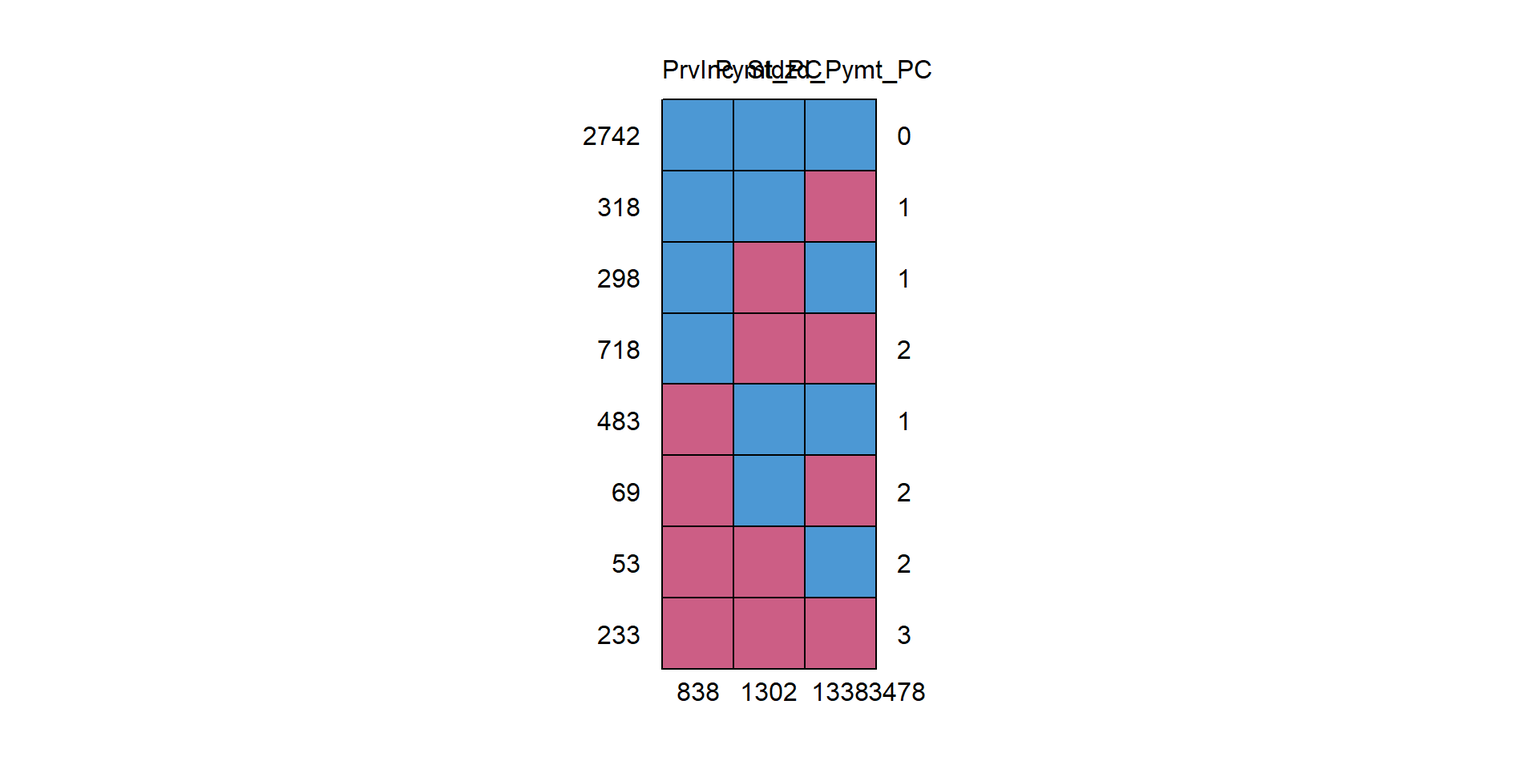
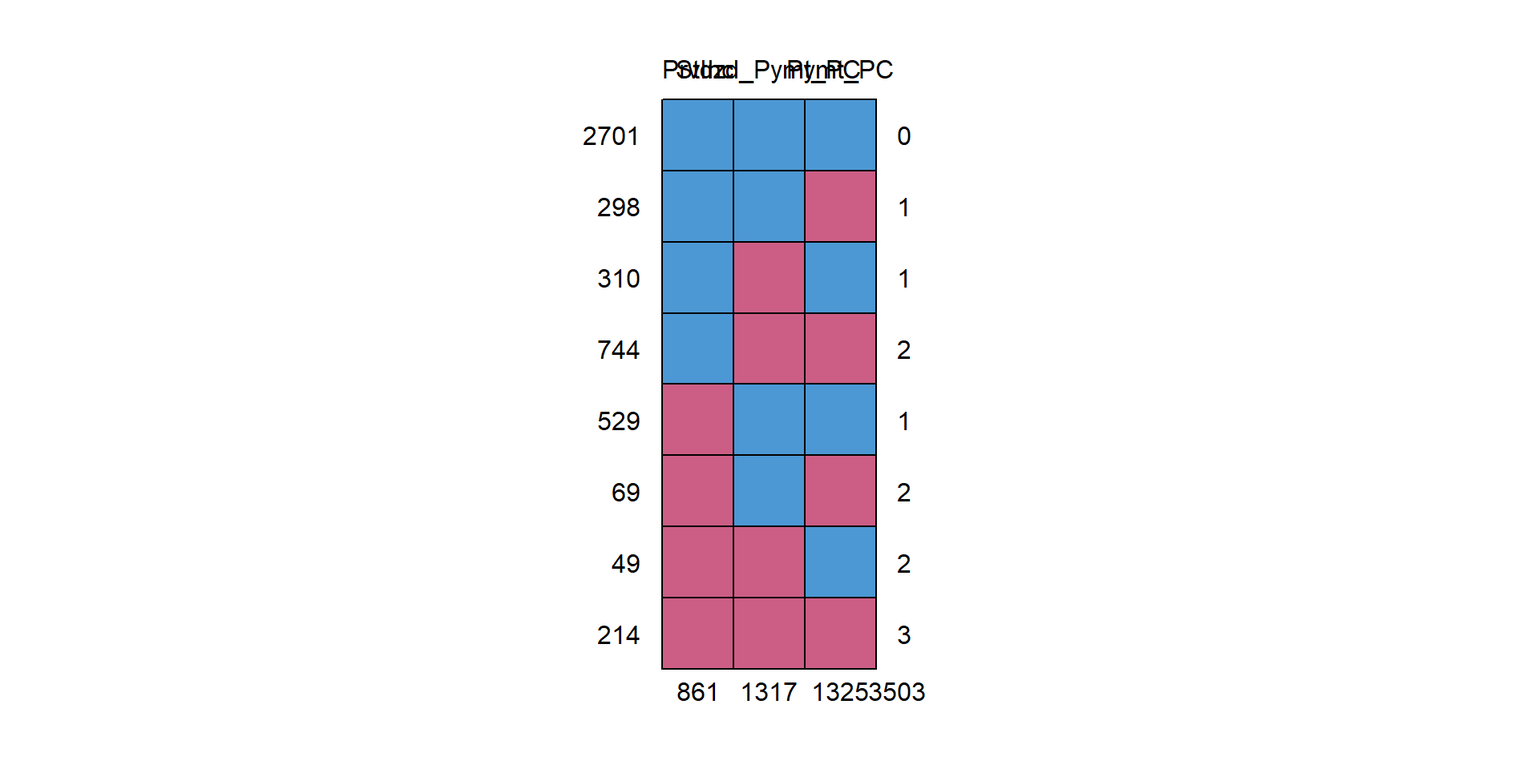
First set of slides

diff --git a/Slides.html b/Slides.html
@@ -11,7 +11,7 @@
   <meta name="generator" content="quarto-1.3.361">
 
   <meta name="author" content="Natalie Belford, Benjamin Brustad, Jasmine Hyler">
-  <meta name="dcterms.date" content="2023-07-24">
+  <meta name="dcterms.date" content="2023-07-26">
   <title>Missing Data and Imputation</title>
   <meta name="apple-mobile-web-app-capable" content="yes">
   <meta name="apple-mobile-web-app-status-bar-style" content="black-translucent">
@@ -420,7 +420,7 @@ Natalie Belford, Benjamin Brustad, Jasmine Hyler
 </div>
 </div>
 
-  <p class="date">2023-07-24</p>
+  <p class="date">2023-07-26</p>
 </section>
 <section id="introduction" class="slide level2">
 <h2>Introduction</h2>
@@ -450,9 +450,20 @@ Natalie Belford, Benjamin Brustad, Jasmine Hyler
 </section>
 <section id="methods" class="slide level2">
 <h2>Methods</h2>
-<p>The dataset used to conduct the below Missing Imputation methods was adapted from the most recent study conducted by the U.S. Department of Health &amp; Human Services which examined 21 specific chronic illnesses of Medicare beneficiaries<span class="citation" data-cites="CMMS">(<a href="#/references" role="doc-biblioref" onclick="">Medicare &amp; Medicaid Services 2018</a>)</span>.</p>
-<p>The Multiple Imputation (MI) approach is used to correct the issue of imputing multiple times the missing values from the predictive distribution of the missing values given observed data. “Next, the analysis model is fitted to each ‘complete’ data set and results combined using Rubin’s rules” <span class="citation" data-cites="k13">(<a href="#/references" role="doc-biblioref" onclick="">Kang 2013</a>)</span>. Bias can be reduced and efficiency increased by using in the imputation step the auxiliary variables (predictive of missing values but not in the substantive model). The MI method is good but is not appropriate for handling all missing data records.</p>
-<p>There is a three-step process for conducting a statistical analysis of MI. The stages are 1) Selecting independent variables that may help impute variables with missing data, 2) Noting the chosen statistical method, estimating in each of the imputed datasets the association of interest, and 3) Combining using Rubin’s rules the association measures from each imputed dataset. To combine, we use the following equations for Standard Error(SE), Arithmetic Average(W) and the Variability of the estimates(B), where t is a particular dataset, m is the total amount of imputed datasets, <span class="math inline">\(\bar{\theta}\)</span> and <span class="math inline">\(\hat{\theta_t}\)</span> are the average parameter estimate and the parameter estimate for a particular dataset, respectively.</p>
+<ul>
+<li><p>Dataset: 21 specific chronic illnesses of Medicare beneficiaries, from U.S. Department of Health &amp; Human Services <span class="citation" data-cites="CMMS">(<a href="#/references" role="doc-biblioref" onclick="">Medicare &amp; Medicaid Services 2018</a>)</span>.</p></li>
+<li><p>Goal: Fill in missing data (2244 missing entries, about 5%)</p></li>
+<li><p>Approach: Imputation using 3 approaches: Predictive Means Matching, Classification and Regression Trees, Lasso Regression, and Random Forest</p>
+<ul>
+<li>These are all forms of Multiple Imputation: perform single imputation several times to create multiple data sets, analyze and compute the error of each set, then combine the data into a single, final data set <span class="citation" data-cites="ljlmw14">(<a href="#/references" role="doc-biblioref" onclick="">Little et al. 2014</a>)</span>.</li>
+</ul></li>
+</ul>
+</section>
+<section id="rubins-rules-for-combining" class="slide level2 smaller">
+<h2>Rubin’s rules for combining</h2>
+<p>1) Select independent variables that may help impute variables with missing data</p>
+<p>2) Noting the chosen statistical method, estimate in each of the imputed datasets the association of interest</p>
+<p>3) Combine using Rubin’s rules the association measures from each imputed dataset. To combine, we use the following equations</p>
 <p><span class="math display">\[
 W=\frac{\sum({SE_t}^2)}{m} \tag{1}
 \]</span></p>
@@ -460,34 +471,61 @@ W=\frac{\sum({SE_t}^2)}{m} \tag{1}
 B=\frac{\sum(\hat{\theta_t}-\bar{\theta})^2}{m-1} \tag{2}
 \]</span></p>
 <p><span class="math display">\[
-SE=\sqrt{W+B+\frac{B}{m}}
+SE=\sqrt{W+B+\frac{B}{m}} \tag{3}
 \]</span></p>
-<p>TARMOS consists of three main steps with a series of subsets within each step. The steps are as follows. Step 1) Plan the analysis, step 2) Conduct the preplanned analysis, and step 3) Report the analysis. The framework’s emphasis is on transparency. All expectations of the analysis and the research interests should be disclosed.</p>
-<p>One proposed method which we deem computationally feasible for this project is multiple imputation. The methodology includes performing single imputation with multiple data sets, analyzing and computing the error of each set, and combining the data into a single, final data set <span class="citation" data-cites="ljlmw14">(<a href="#/references" role="doc-biblioref" onclick="">Little et al. 2014</a>)</span>.</p>
-<p>Researchers tested their proposed SICE method using four datasets, a sample of 65,000 real health records from hospitals and diagnostic clinics in Bangladesh, and one public dataset each from UCI Machine Learning Repository, Department of Mathematics of ETH Zurich, and Kaggle. The data types assessed were binary, categorical, and numeric.</p>
-<p>Researchers tested SICE performance against that of 12 existing imputation methods. Binary and numeric data responded better to SICE than the opposing methods. When using SICE, F-measurement resulted in a 20% increase while error reduction resulted in an 11% increase; Both factors showed improvement using SICE compared to the existing imputation methods. There was no significant time difference when running SICE compared to MICE [<span class="citation" data-cites="pmckppp17">Pedersen et al. (<a href="#/references" role="doc-biblioref" onclick="">2017</a>)</span>].</p>
-<p>Using Multiple Imputation by Chained Equations (MICE), the multiple imputation is conducted by manipulating the imputed data and comparing it to the regression, repeating the process multiple times, (usually 5-20), to create a single data set. Most modern imputations will create 20-100 data sets. Then each of these data sets will be analyzed and compared, such that the MI estimate of any statistic is the average of the statistic across each imputed set. The variance of each statistic is based on the within-imputation variation and the between-imputation variation [<span class="citation" data-cites="awlb21">Austin et al. (<a href="#/references" role="doc-biblioref" onclick="">2021</a>)</span>]. The variable that is to be analyzed must be included in the imputation model, even if there is no missing data, otherwise, it will often be biased towards null.</p>
-<p>For our analysis, we decided to use the R packages for predictive means matching, classification and regression trees, and lasso linear regression, defined below.</p>
 </section>
-<section id="equations" class="slide level2">
-<h2>Equations</h2>
-</section>
-<section id="predictive-means-matching" class="slide level2">
-<h2>Predictive Means Matching</h2>
-<p>Predictive means matching(PMM) is a hot deck method, which pools complete cases which are similar to the case we are trying to impute, and randomly chooses values from the pool of prospective donors to be imputed for the missing data.For each missing variable, $x$, we impute using parameters $\alpha$ and covariates $z$. We use $h$ as a subscript for data containing $x$ and $j$ for data without. PMM choses a random donor from $x_h$ such that the distance defined below is minimized.</p>
+<section id="predictive-means-matching-pmm" class="slide level2 smaller">
+<h2>Predictive Means Matching (PMM)</h2>
+<ul>
+<li><p>hot deck method</p></li>
+<li><p>easy to use</p></li>
+<li><p>handles any data type</p></li>
+<li><p>Realistic</p></li>
+<li><p>Hard to use for small data sets or ones with large FMI</p></li>
+</ul>
+<p>For each missing variable, <span class="math inline">\(x\)</span> , we impute using parameters <span class="math inline">\(\alpha\)</span> and covariates <span class="math inline">\(z\)</span> . We use <span class="math inline">\(h\)</span> as a subscript for data containing <span class="math inline">\(x\)</span> and <span class="math inline">\(j\)</span> for data without. PMM choses a random donor from <span class="math inline">\(x_h\)</span> such that the distance defined below is minimized.</p>
 <p><span class="math display">\[
 \delta_{hj}=\alpha^{mis}z_j-\alpha^{obs}z_h \tag{4}
 \]</span></p>
 </section>
-<section id="classification-and-regression-trees" class="slide level2">
-<h2>Classification and Regression Trees</h2>
-<p>Classification and regression trees(CART) look for predictors and cutoff points in the data, and split data into trees along these points. Classifications trees are used for discrete data, but for continuous, such as ours, regression trees are employed. Missing data is replaced very similarly to the PMM method, but data is chosen according to the tree of splitting points rather than regression [<span class="citation" data-cites="RJG21">Rodgers, Jacobucci, and Grimm (<a href="#/references" role="doc-biblioref" onclick="">2021</a>)</span>].</p>
+<section id="classification-and-regression-treescart" class="slide level2">
+<h2>Classification and Regression Trees(CART)</h2>
+<ul>
+<li><p>Machine Learning</p></li>
+<li><p>Robust</p></li>
+<li><p>Flexible</p></li>
+<li><p>Straightforward(in R)</p>
+<ul>
+<li>Automates variable selection, missing values, outliers, variable interaction, and nonlinear relationships</li>
+</ul></li>
+<li><p>In practice works similarly to PMM with tree instead of regression</p></li>
+</ul>
 </section>
-<section id="lasso-regression" class="slide level2">
+<section id="random-forestmiss-forest" class="slide level2">
+<h2>Random Forest(Miss Forest)</h2>
+<ul>
+<li>Subset of CART</li>
+</ul>
+<!-- -->
+<ul>
+<li><p>Uses CART and Rubin’s rules automatically to yield a single dataset</p></li>
+<li><p>Does not account for uncertainty and increases P values</p></li>
+<li><p>Usually similar to average of all predictions from the CART models</p></li>
+<li><p>Better predictions and accuracy than a single CART model</p></li>
+</ul>
+</section>
+<section id="lasso-regression" class="slide level2 smaller">
 <h2>Lasso Regression</h2>
-<p>Lasso linear regression fits a linear regression using the missing columns as dependent and complete columns as predictors. Then a Bayesian linear model is defined, and imputations are drawn from the posterior predictive distribution. Coefficients <span class="math inline">\(\hat{\beta_0}\)</span> and <span class="math inline">\(\hat{\beta}^{lasso}\)</span> are estimated by</p>
+<ul>
+<li><p>Minimizes regression coefficient (good for high multicollinearity)</p></li>
+<li><p>Best for high dimension datasets</p></li>
+<li><p>Preserves relationships between variables best</p></li>
+<li><p>May add bias</p></li>
+<li><p>Removes some predictor variables(easier to use)</p></li>
+</ul>
+<p>Coefficients <span class="math inline">\(\hat{\beta_0}\)</span> and <span class="math inline">\(\hat{\beta}^{lasso}\)</span> are estimated by</p>
 <p><span class="math display">\[(\hat{\beta_0}, \hat{\beta}^{lasso}) =argmin[\sum(Y_i-(\beta_0+\beta X^T_i))^2+\lambda \sum |\beta_j|] \tag5\]</span></p>
-<p>where Y and X are the outcome and predictors respectively. λ is a non-negative tuning parameter that controls the amount of shrinkage, with increased shrinkage for higher λ values [@MZPRG14].</p>
+<p>where Y and X are the outcome and predictors respectively. λ is a non-negative tuning parameter that controls the amount of shrinkage, with increased shrinkage for higher λ values <span class="citation" data-cites="MZPRG14">(<a href="#/references" role="doc-biblioref" onclick="">Musoro et al. 2014</a>)</span>.</p>
 </section>
 <section id="analysis-and-results" class="slide level2">
 <h2>Analysis and Results</h2>
@@ -576,16 +614,16 @@ SE=\sqrt{W+B+\frac{B}{m}}
 <p><img data-src="Slides_files/figure-revealjs/unnamed-chunk-6-1.png" width="960"></p>
 </div>
 <div class="cell-output cell-output-stdout">
-<pre><code>     PrvInc Pymt_PC Stdzd_Pymt_PC     
-2742      1       1             1    0
-318       1       1             0    1
-298       1       0             1    1
-718       1       0             0    2
-483       0       1             1    1
-69        0       1             0    2
-53        0       0             1    2
-233       0       0             0    3
-        838    1302          1338 3478</code></pre>
+<pre><code>     PrvInc Stdzd_Pymt_PC Pymt_PC     
+2701      1             1       1    0
+298       1             1       0    1
+310       1             0       1    1
+744       1             0       0    2
+529       0             1       1    1
+69        0             1       0    2
+49        0             0       1    2
+214       0             0       0    3
+        861          1317    1325 3503</code></pre>
 </div>
 </div>
 <p>Additionally, we ran the miss Forest package followed by a summary to gain a better quantitative view. Below are the code, results, and figure.</p>
@@ -603,14 +641,14 @@ SE=\sqrt{W+B+\frac{B}{m}}
 <span id="cb7-2"><a href="#cb7-2"></a></span>
 <span id="cb7-3"><a href="#cb7-3"></a><span class="fu">summary</span>(Chronic_Conditions.mis)</span></code><button title="Copy to Clipboard" class="code-copy-button"><i class="bi"></i></button></pre></div>
 <div class="cell-output cell-output-stdout">
-<pre><code>     PrvInc       Stdzd_Pymt_PC      Pymt_PC      
- Min.   :0.0000   Min.   :    0   Min.   :     0  
- 1st Qu.:0.0391   1st Qu.:18580   1st Qu.: 18389  
- Median :0.1114   Median :23222   Median : 22995  
- Mean   :0.1724   Mean   :24090   Mean   : 24021  
- 3rd Qu.:0.2756   3rd Qu.:28251   3rd Qu.: 28242  
- Max.   :0.7588   Max.   :89235   Max.   :100028  
- NA's   :838      NA's   :1338    NA's   :1302    </code></pre>
+<pre><code>     PrvInc       Stdzd_Pymt_PC      Pymt_PC     
+ Min.   :0.0000   Min.   :    0   Min.   :    0  
+ 1st Qu.:0.0381   1st Qu.:18582   1st Qu.:18393  
+ Median :0.1117   Median :23151   Median :22972  
+ Mean   :0.1732   Mean   :24039   Mean   :24013  
+ 3rd Qu.:0.2769   3rd Qu.:28228   3rd Qu.:28268  
+ Max.   :0.7588   Max.   :89235   Max.   :74136  
+ NA's   :861      NA's   :1317    NA's   :1325   </code></pre>
 </div>
 </div>
 <div class="cell">
@@ -658,14 +696,14 @@ Madley-Dowd, P., R. Hughes, K. Tilling, and J. Heron. 2019. <span>“The Proport
 <div id="ref-CMMS" class="csl-entry" role="listitem">
 Medicare &amp; Medicaid Services, Centers for. 2018. <span>“Specific Chronic Conditions.”</span> <a href="https://catalog.data.gov/dataset/specific-chronic-conditions-0f448">https://catalog.data.gov/dataset/specific-chronic-conditions-0f448</a>.
 </div>
+<div id="ref-MZPRG14" class="csl-entry" role="listitem">
+Musoro, Jammbe Z, Aeilko H Zwinderman, Milo A Puhan, Gerben ter Riet, and Ronald B Geskus. 2014. <span>“Validation of Prediction Models Based on Lasso Regression with Multiply Imputed Data.”</span> <em>BMC Medical Research Methodology</em> 1. https://doi.org/<a href="https://doi.org/10.1186/1471-2288-14-116">https://doi.org/10.1186/1471-2288-14-116</a>.
+</div>
 <div id="ref-oap18" class="csl-entry" role="listitem">
 Osman, M. S., A. M. Abu-Mahfouz, and P. R. Page. 2018. <span>“A Survey on Data Imputation Techniques: Water Distribution System as a Use Case.”</span> <em>IEEE Access</em> 6: 63279–91. <a href="https://doi.org/10.1109/ACCESS.2018.2877269">https://doi.org/10.1109/ACCESS.2018.2877269</a>.
 </div>
 <div id="ref-pmckppp17" class="csl-entry" role="listitem">
 Pedersen, Alma B., Ellen M. Mikkelsen, Deirdre Cronin-Fenton, Nickolaj R. Kristensen, Tra My Pham, Lars Pedersen, and Irene Petersen. 2017. <span>“Missing Data and Multiple Imputation in Clinical Epidemiological Research,”</span> <em>Clinical Epidemiology</em> 9: 157–66. <a href="https://doi.org/10.2147/CLEP.S129785">https://doi.org/10.2147/CLEP.S129785</a>.
-</div>
-<div id="ref-RJG21" class="csl-entry" role="listitem">
-Rodgers, Danielle M., Ross Jacobucci, and Kevin J. Grimm. 2021. <span>“A Multiple Imputation Approach for Handling Missing Data in Classification and Regression Trees.”</span> <em>Journal of Behavioral Data Science</em> 1: 127–53. https://doi.org/<a href="https://doi.org/10.35566/jbds/v1n1/p6">https://doi.org/10.35566/jbds/v1n1/p6</a>.
 </div>
 <div id="ref-r76" class="csl-entry" role="listitem">
 Rubin, Donald B. 1976. <span>“Inference and Missing Data.”</span> <em>Biometrika</em> 63 (3): 581–92. <a href="https://doi.org/10.1093/biomet/63.3.581">https://doi.org/10.1093/biomet/63.3.581</a>.

diff --git a/index.html b/index.html
@@ -7,7 +7,7 @@
 <meta name="viewport" content="width=device-width, initial-scale=1.0, user-scalable=yes">
 
 <meta name="author" content="Natalie Belford, Benjamin Brustad, Jasmine Hyler">
-<meta name="dcterms.date" content="2023-07-24">
+<meta name="dcterms.date" content="2023-07-26">
 
 <title>Missing Data and Imputation</title>
 <style>
@@ -119,7 +119,7 @@ div.csl-indent {
     <div>
     <div class="quarto-title-meta-heading">Published</div>
     <div class="quarto-title-meta-contents">
-      <p class="date">July 24, 2023</p>
+      <p class="date">July 26, 2023</p>
     </div>
   </div>
   
@@ -141,8 +141,8 @@ div.csl-indent {
 <section id="types-of-missing-data" class="level4">
 <h4 class="anchored" data-anchor-id="types-of-missing-data">Types of Missing Data</h4>
 <p>Throughout the topic research, a common theme has emerged. Missing data is categorized into either one of three types: Missing Completely at Random, Missing at Random, and or Missing Not at Random.</p>
-<p>Kang <span class="citation" data-cites="k13">(<a href="#ref-k13" role="doc-biblioref">2013</a>)</span> introduces us to the three types of missing data as initially proposed by Rubin <span class="citation" data-cites="r76">(<a href="#ref-r76" role="doc-biblioref">Rubin 1976</a>)</span>. This research was expanded upon <span class="citation" data-cites="pmckppp17">(<a href="#ref-pmckppp17" role="doc-biblioref">Pedersen et al. 2017</a>)</span> to discuss the thorough estimation value of using MI in data analysis along with providing the three-step method. Pedersen et al. <span class="citation" data-cites="pmckppp17">(<a href="#ref-pmckppp17" role="doc-biblioref">2017</a>)</span> conclude the results of using MI are similar to using complete datasets thereby enhancing the credibility of the method’s robustness.</p>
-<p>Missing Completely at Random (MCAR) refers to the probability that missing data is either not related to a specific value that is supposed to be obtained or to the set of obtained values. The data can also be missing due to equipment failure, samples lost in transit, or unsatisfactory samples <span class="citation" data-cites="k13">(<a href="#ref-k13" role="doc-biblioref">Kang 2013</a>)</span>. MCAR data are unbiased and therefore an advantage due to its estimated parameters being objective and undeterred because of missing data. As a result, MCAR is the best-case option for missing data in an experiment.</p>
+<p>Kang <span class="citation" data-cites="k13">(<a href="#ref-k13" role="doc-biblioref">2013</a>)</span> introduces us to the three types of missing data as initially proposed by Rubin <span class="citation" data-cites="r76">(<a href="#ref-r76" role="doc-biblioref">1976</a>)</span>. This research was expanded upon <span class="citation" data-cites="pmckppp17">(<a href="#ref-pmckppp17" role="doc-biblioref">Pedersen et al. 2017</a>)</span> to discuss the thorough estimation value of using MI in data analysis along with providing the three-step method. Pedersen et al. <span class="citation" data-cites="pmckppp17">(<a href="#ref-pmckppp17" role="doc-biblioref">2017</a>)</span> conclude the results of using MI are similar to using complete datasets thereby enhancing the credibility of the method’s robustness.</p>
+<p>Missing Completely at Random (MCAR) refers to the probability that missing data is either not related to a specific value that is supposed to be obtained or related to the set of obtained values. The data can also be missing due to equipment failure, samples lost in transit, or unsatisfactory samples <span class="citation" data-cites="k13">(<a href="#ref-k13" role="doc-biblioref">Kang 2013</a>)</span>. MCAR data are unbiased and therefore an advantage due to its estimated parameters being objective and undeterred because of missing data. As a result, MCAR is the best-case option for missing data in an experiment.</p>
 <p>Missing at Random (MAR) refers to the probability that missing responses are dependent upon the set of observed responses, but not related to the specific values expected to be obtained given the history of the obtained variable prior to the experiment. This is the most realistic option for missing data. When Missing at Random (MAR) occurs, the missing data is knowable and missingness is predictable, therefore, estimates can be determined; bias can be “recovered” <span class="citation" data-cites="k13">(<a href="#ref-k13" role="doc-biblioref">Kang 2013</a>)</span>.</p>
 <p>Missing Not at Random (MNAR) refers to any case of missing data that cannot be classified as either Missing Completely at Random or Missing at Random. When Missing Not at Random (MNAR) occurs, no bias is observed, only power is affected resulting in standard error (SE) around the estimates being larger due to reduced sample size. MNAR is the least desirable scenario of missing data. The only way to accurately obtain an unbiased observation of the data is to model the data and use the model to incorporate it into a more complex model to estimate the values <span class="citation" data-cites="k13">(<a href="#ref-k13" role="doc-biblioref">Kang 2013</a>)</span>. When Missing Not at Random (MNAR) occurs, the subjects affect the variables. Subjects do not want to disclose accurate information for fear or shame, and therefore forego providing a data point altogether <span class="citation" data-cites="ljlmw14">(<a href="#ref-ljlmw14" role="doc-biblioref">Little et al. 2014</a>)</span>.</p>
 </section>
@@ -179,7 +179,7 @@ SE=\sqrt{W+B+\frac{B}{m}}  \tag3
 <p>One proposed method which we deem computationally feasible for this project is multiple imputation. The methodology includes performing single imputation with multiple data sets, analyzing and computing the error of each set, and combining the data into a single, final data set <span class="citation" data-cites="ljlmw14">(<a href="#ref-ljlmw14" role="doc-biblioref">Little et al. 2014</a> )</span>.</p>
 <p>Researchers tested their proposed SICE method using four datasets, a sample of 65,000 real health records from hospitals and diagnostic clinics in Bangladesh, and one public dataset each from UCI Machine Learning Repository, Department of Mathematics of ETH Zurich, and Kaggle. The data types assessed were binary, categorical, and numeric. Researchers tested SICE performance against that of 12 existing imputation methods. Binary and numeric data responded better to SICE than the opposing methods. When using SICE, F-measurement resulted in a 20% increase while error reduction resulted in an 11% increase; Both factors showed improvement using SICE compared to the existing imputation methods. There was no significant time difference when running SICE compared to MICE <span class="citation" data-cites="pmckppp17">(<a href="#ref-pmckppp17" role="doc-biblioref">Pedersen et al. 2017</a>)</span>.</p>
 <p>Using Multiple Imputation by Chained Equations (MICE), the multiple imputation is conducted by manipulating the imputed data and comparing it to the regression, repeating the process multiple times, (usually 5-20), to create a single data set. Most modern imputations will create 20-100 data sets. Then each of these data sets will be analyzed and compared, such that the MI estimate of any statistic is the average of the statistic across each imputed set. The variance of each statistic is based on the within-imputation variation and the between-imputation variation <span class="citation" data-cites="awlb21">(<a href="#ref-awlb21" role="doc-biblioref">Austin et al. 2021</a>)</span>. The variable that is to be analyzed must be included in the imputation model, even if there is no missing data, otherwise, it will often be biased towards null.</p>
-<p>For our analysis, we decided to use the R packages for predictive means matching, classification and regression trees, and lasso linear regression, defined below.</p>
+<p>For our analysis, we decided to use the R packages for predictive means matching, classification and regression trees, lasso linear regression, and Random Forest, defined below.</p>
 <section id="equations" class="level3">
 <h3 class="anchored" data-anchor-id="equations">Equations</h3>
 <section id="predictive-means-matching" class="level4">
@@ -303,16 +303,16 @@ SE=\sqrt{W+B+\frac{B}{m}}  \tag3
 <p><img src="index_files/figure-html/unnamed-chunk-6-1.png" class="img-fluid" width="672"></p>
 </div>
 <div class="cell-output cell-output-stdout">
-<pre><code>     PrvInc Stdzd_Pymt_PC Pymt_PC     
-2685      1             1       1    0
-328       1             1       0    1
-330       1             0       1    1
-761       1             0       0    2
-487       0             1       1    1
-64        0             1       0    2
-62        0             0       1    2
-197       0             0       0    3
-        810          1350    1350 3510</code></pre>
+<pre><code>     PrvInc Pymt_PC Stdzd_Pymt_PC     
+2701      1       1             1    0
+307       1       1             0    1
+307       1       0             1    1
+747       1       0             0    2
+522       0       1             1    1
+61        0       1             0    2
+54        0       0             1    2
+215       0       0             0    3
+        852    1323          1330 3505</code></pre>
 </div>
 </div>
 <p>Additionally, we ran the miss Forest package followed by a summary to gain a better quantitative view. Below are the code, results, and figure.</p>
@@ -336,12 +336,12 @@ SE=\sqrt{W+B+\frac{B}{m}}  \tag3
 <div class="cell-output cell-output-stdout">
 <pre><code>     PrvInc       Stdzd_Pymt_PC      Pymt_PC      
  Min.   :0.0000   Min.   :    0   Min.   :     0  
- 1st Qu.:0.0381   1st Qu.:18704   1st Qu.: 18410  
- Median :0.1097   Median :23271   Median : 22976  
- Mean   :0.1716   Mean   :24081   Mean   : 24068  
- 3rd Qu.:0.2728   3rd Qu.:28184   3rd Qu.: 28247  
- Max.   :0.7588   Max.   :68567   Max.   :100028  
- NA's   :810      NA's   :1350    NA's   :1350    </code></pre>
+ 1st Qu.:0.0383   1st Qu.:18557   1st Qu.: 18389  
+ Median :0.1097   Median :23036   Median : 23051  
+ Mean   :0.1719   Mean   :23996   Mean   : 24036  
+ 3rd Qu.:0.2738   3rd Qu.:28182   3rd Qu.: 28270  
+ Max.   :0.7588   Max.   :89235   Max.   :100028  
+ NA's   :852      NA's   :1330    NA's   :1323    </code></pre>
 </div>
 </div>
 <div class="cell">
